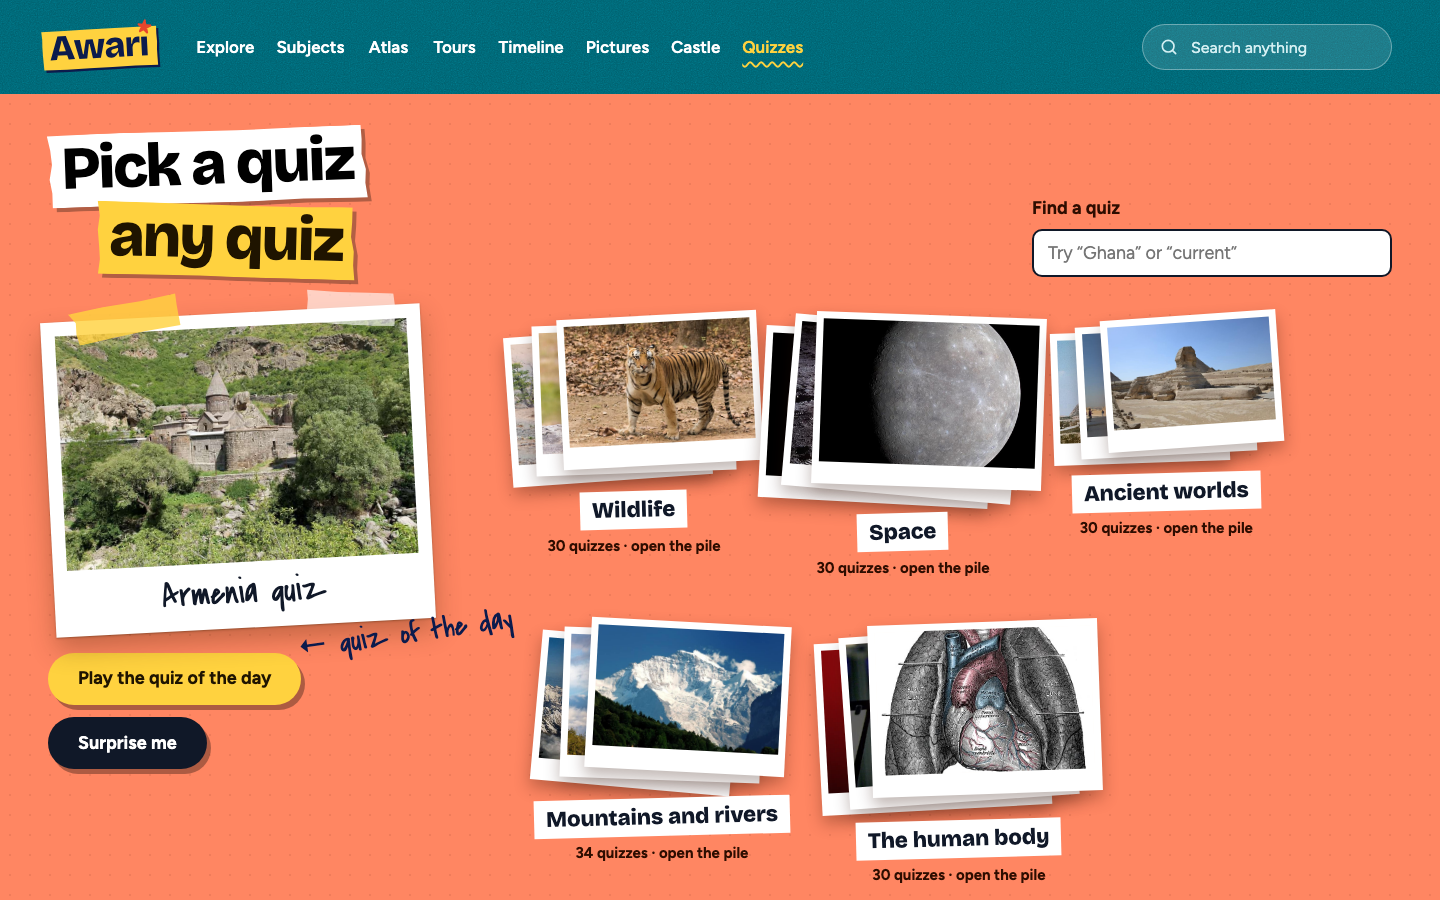
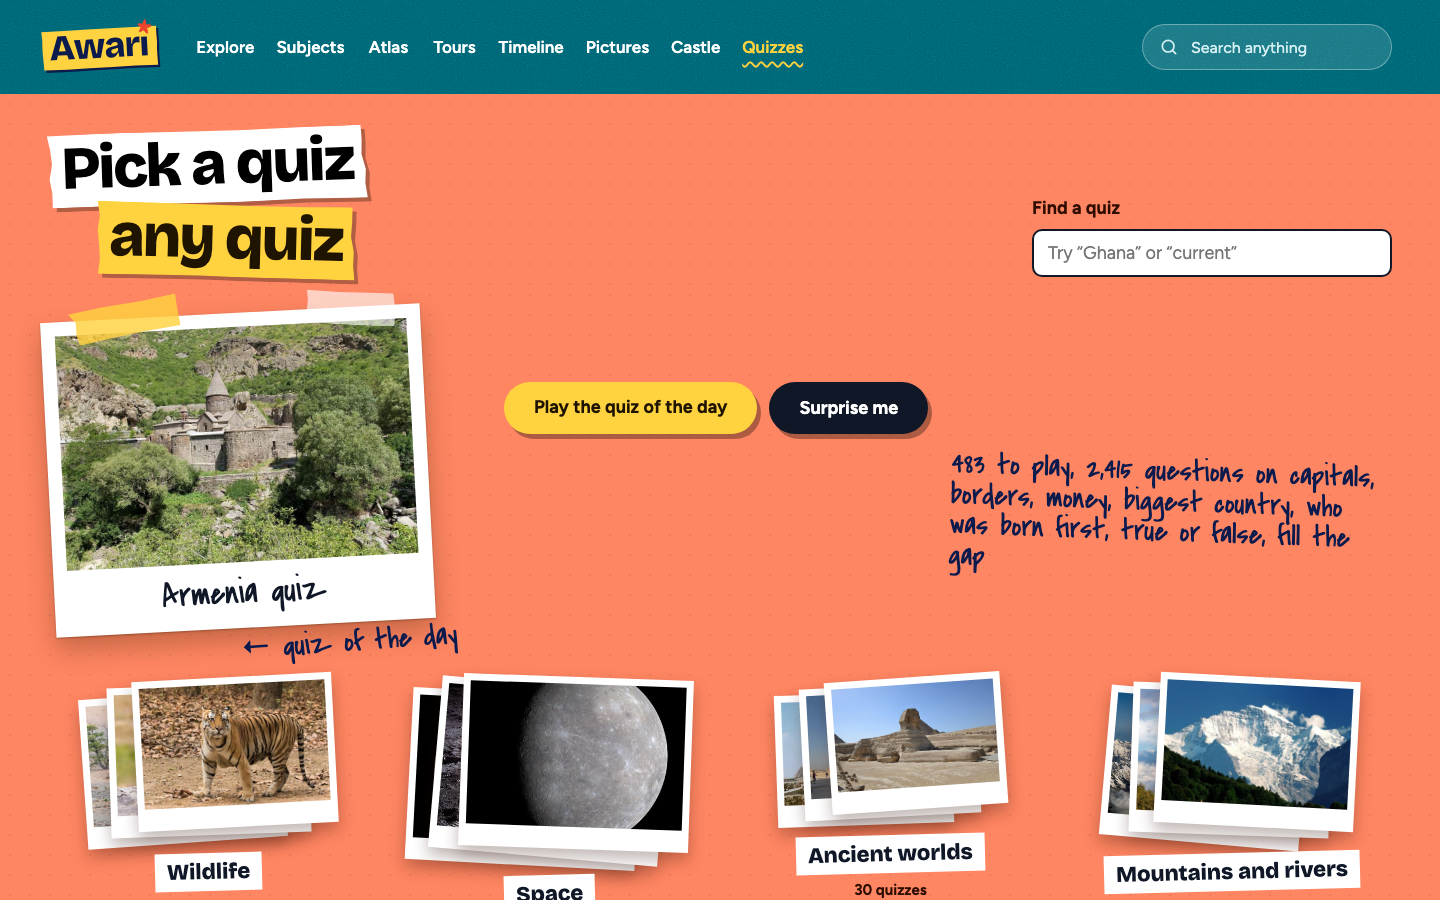
28-every-screen-like-home 2: shelf feedback (no hyphen-looking z, piles across the table 4-3-3, note beside the buttons, whole pile is the control)

diff --git a/src/features/quiz/QuizzesScreen.tsx b/src/features/quiz/QuizzesScreen.tsx
@@ -45,7 +45,7 @@ function thumbOf(pack: string, item: PackIndexItem | undefined): string {
   return item?.thumb ? packUrl(item.thumb) : (coverFor(pack)?.file ?? '');
 }
 
-function QuizOfTheDay({ quiz, all }: { quiz: QuizEntry; all: readonly QuizEntry[] }) {
+function QuizOfTheDay({ quiz }: { quiz: QuizEntry }) {
   const thumbs = useThumbs(quiz.pack);
   return (
     <div className="shelf-today">
@@ -66,22 +66,28 @@ function QuizOfTheDay({ quiz, all }: { quiz: QuizEntry; all: readonly QuizEntry[
       <p aria-hidden="true" className="shelf-today__note hand">
         ← quiz of the day
       </p>
-      <div className="shelf-today__actions">
-        <Link className="btn btn--yellow" to={`/quiz/${quiz.pack}/${quiz.id}`}>
-          Play the quiz of the day
-        </Link>
-        <button
-          type="button"
-          className="btn btn--ink"
-          onClick={() => {
-            const pick = all[Math.floor(Math.random() * all.length)];
-            if (pick) navigate(`/quiz/${pick.pack}/${pick.id}`);
-          }}
-        >
-          Surprise me
-        </button>
-      </div>
     </div>
+  );
+}
+
+/** "Play the quiz of the day" and "Surprise me", beside the print with the handwritten note. */
+function TodayActions({ quiz, all }: { quiz: QuizEntry; all: readonly QuizEntry[] }) {
+  return (
+        <div className="shelf-today__actions">
+          <Link className="btn btn--yellow" to={`/quiz/${quiz.pack}/${quiz.id}`}>
+            Play the quiz of the day
+          </Link>
+          <button
+            type="button"
+            className="btn btn--ink"
+            onClick={() => {
+              const pick = all[Math.floor(Math.random() * all.length)];
+              if (pick) navigate(`/quiz/${pick.pack}/${pick.id}`);
+            }}
+          >
+            Surprise me
+          </button>
+        </div>
   );
 }
 
@@ -95,7 +101,14 @@ function Pile({ pack, quizzes, index }: { pack: string; quizzes: readonly QuizEn
   const panel = `pile-${pack}`;
   return (
     <section className={`shelf-pile shelf-pile--${index % 3}`} aria-labelledby={`${panel}-title`}>
-      <button type="button" className="shelf-pile__button" aria-expanded={open} aria-controls={panel} onClick={() => setOpen((o) => !o)}>
+      <button
+        type="button"
+        className="shelf-pile__button"
+        aria-expanded={open}
+        aria-controls={panel}
+        aria-label={`${open ? 'Close' : 'Open'} the ${LABEL[pack]} pile, ${quizzes.length} quizzes`}
+        onClick={() => setOpen((o) => !o)}
+      >
         <span aria-hidden="true" className="shelf-pile__stack">
           {top.map((q, i) => (
             <span key={q.id} className="shelf-pile__card" style={{ rotate: `${tilt(index + i * 2)}deg`, translate: `${i * 26 - 26}px ${i * -8}px` }}>
@@ -107,7 +120,7 @@ function Pile({ pack, quizzes, index }: { pack: string; quizzes: readonly QuizEn
           {LABEL[pack]}
         </span>
         <span className="shelf-pile__count">
-          {quizzes.length} quizzes{done ? `, ${done} played` : ''} · {open ? 'close the pile' : 'open the pile'}
+          {quizzes.length} quizzes{done ? `, ${done} played` : ''}
         </span>
       </button>
       {open ? (
@@ -218,13 +231,16 @@ export default function QuizzesScreen() {
       ) : null}
 
       <div className="shelf-table">
-        {today ? <QuizOfTheDay quiz={today} all={quizzes} /> : null}
-        {total ? (
-          <MarginNote tilt={2} size={30} className="shelf-table__note">
-            {quizzes.length} quizzes, {total.toLocaleString('en-GB')} questions: capitals, borders, money, biggest country, who was born
-            first, true or false, fill the gap
-          </MarginNote>
-        ) : null}
+        {today ? <QuizOfTheDay quiz={today} /> : null}
+        <div className="shelf-beside">
+          {total ? (
+            <MarginNote tilt={2} size={30} className="shelf-table__note">
+              {quizzes.length} to play, {total.toLocaleString('en-GB')} questions on capitals, borders, money, biggest country, who was
+              born first, true or false, fill the gap
+            </MarginNote>
+          ) : null}
+          {today ? <TodayActions quiz={today} all={quizzes} /> : null}
+        </div>
         <div className="shelf-piles">
           {SUBJECTS.filter((s) => s.id !== 'countries').map((s, i) => (
             <Pile key={s.id} pack={s.id} index={i} quizzes={quizzes.filter((q) => q.pack === s.id)} />

diff --git a/src/features/quiz/quizzes.css b/src/features/quiz/quizzes.css
@@ -519,3 +519,154 @@
 .shelf-sheet__more {
   margin-top: 16px;
 }
+
+/* Owner feedback 18 Nov 23:40: no hyphen inside handwriting; the ten piles spread across the whole table in rows of
+   four, three and three with offsets; the note beside the buttons; the whole pile lifts as one control. */
+.shelf-table__note,
+.shelf-table__note * {
+  hyphens: none;
+  overflow-wrap: normal;
+  word-break: normal;
+}
+
+@media (min-width: 900px) {
+  .shelf-table {
+    grid-template-columns: minmax(300px, 400px) minmax(0, 1fr);
+    grid-template-areas:
+      'today note'
+      'piles piles';
+    align-items: center;
+    gap: 10px 56px;
+  }
+
+  .shelf-table__note {
+    align-self: end;
+    max-width: 560px;
+    margin-bottom: 104px;
+    font-size: 34px;
+  }
+
+  .shelf-today__note {
+    right: auto;
+    left: calc(100% + 24px);
+    top: 30%;
+  }
+
+  .shelf-today__actions {
+    position: absolute;
+    left: calc(100% + 56px);
+    bottom: 18px;
+    margin: 0;
+    flex-wrap: nowrap;
+  }
+
+  .shelf-today {
+    margin-bottom: 20px;
+  }
+
+  .shelf-piles {
+    display: grid;
+    grid-template-columns: repeat(12, minmax(0, 1fr));
+    gap: 34px 20px;
+    margin-top: 18px;
+  }
+
+  .shelf-pile {
+    grid-column: span 3;
+    justify-self: center;
+  }
+
+  /* Rows two and three hold three piles each, shifted by half a column for an offset, hand-laid look. */
+  .shelf-pile:nth-child(n + 5) {
+    grid-column: span 4;
+  }
+
+  .shelf-pile:nth-child(5) {
+    translate: 30px 0;
+  }
+
+  .shelf-pile:nth-child(7),
+  .shelf-pile:nth-child(10) {
+    translate: -30px 0;
+  }
+
+  .shelf-pile:nth-child(9) {
+    translate: 40px 6px;
+  }
+
+  .shelf-pile:has([aria-expanded='true']) {
+    grid-column: 1 / -1;
+    justify-self: stretch;
+    translate: none;
+  }
+}
+
+.shelf-pile__button {
+  border-radius: 10px;
+  transition: translate 140ms ease, background-color 140ms ease;
+}
+
+.shelf-pile__button:hover,
+.shelf-pile__button:focus-visible {
+  translate: 0 -6px;
+  background: rgb(255 255 255 / 0.18);
+}
+
+@media (prefers-reduced-motion: reduce) {
+  .shelf-pile__button {
+    transition: none;
+  }
+
+  .shelf-pile__button:hover,
+  .shelf-pile__button:focus-visible {
+    translate: none;
+  }
+}
+
+/* The note and the two buttons sit together beside the quiz of the day. */
+.shelf-beside {
+  grid-area: note;
+  display: grid;
+  gap: 22px;
+  align-content: center;
+}
+
+.shelf-beside .shelf-today__actions {
+  position: static;
+  margin: 0;
+  flex-wrap: wrap;
+}
+
+.shelf-beside .shelf-table__note {
+  margin: 0;
+  max-width: 620px;
+}
+
+@media (max-width: 899px) {
+  .shelf-table {
+    grid-template-areas: 'today' 'note' 'piles';
+  }
+
+  .shelf-beside .shelf-table__note {
+    font-size: 24px;
+  }
+}
+
+.shelf-today__note {
+  white-space: nowrap;
+}
+
+.margin-note {
+  font-variant-ligatures: none;
+  font-feature-settings: 'liga' 0, 'calt' 0, 'dlig' 0;
+}
+
+@media (min-width: 900px) {
+  .shelf-today__note {
+    top: auto;
+    left: auto;
+    right: -10px;
+    bottom: -38px;
+    rotate: -4deg;
+  }
+}

diff --git a/src/design/global.css b/src/design/global.css
@@ -46,6 +46,11 @@ h2:focus {
 .hand {
   font-family: var(--font-hand);
   font-weight: 400;
+  /* The hand font joins "zz" and some other pairs with a stroke that reads as a hyphen ("quiz-zes"); handwriting
+     never hyphenates (28, owner feedback 18 Nov). */
+  font-variant-ligatures: none;
+  font-feature-settings: 'liga' 0, 'calt' 0, 'dlig' 0;
+  hyphens: none;
 }
 
 .sr-only {

diff --git a/docs/design-pass.md b/docs/design-pass.md
@@ -171,3 +171,21 @@ Done (19 Nov, main session), with notes:
 - [x] (owner, 23:02 UTC) The tried ticket is marked: a pencil cross over it, a handwritten "✗ tried" tag, and it cannot be
       picked again (`tried` in `quizMachine.ts`, test `tried.test.ts`). 1024 and 768 re-measured with
       `layout-stable.ts`: no movement, no overlap, "Not quite" on a cream slip at every width.
+
+### Quizzes shelf, commit 411711e (looked at 18 Nov 23:40 UTC, the `after/` shots)
+
+This passes the test: it reads like Home. Keep the coral table, the piles, the quiz of the day and
+the stamp sheets with photographs. Small things:
+
+- [x] The handwritten note breaks a word: "483 quiz-zes". Never hyphenate inside handwriting; let
+      the line wrap between words.
+- [x] The piles sit in a ragged block with holes on the right of rows two and four and an empty
+      strip down the left under "Surprise me". Spread the ten piles across the full table width
+      (four, three, three with offsets) and move the handwritten note up beside the buttons.
+- [x] "30 quizzes · open the pile": drop the middle dot; write "30 quizzes" and let the whole pile
+      be the control (it should lift on hover, and say "Open the Wildlife pile" to a screen reader).
+- Done (19 Nov, main session): the hand font draws "z" with a crossbar, which read as a hyphen in "quizzes"; the note now
+  says "483 to play, 2,415 questions on ...", and every `.hand` text has ligatures and hyphenation switched off. The
+  ten piles sit across the whole table in rows of four, three and three with offsets; the note and both buttons sit
+  beside the quiz of the day. Each pile is one button that lifts on hover and reads "Open the Wildlife pile, 30 quizzes"
+  to a screen reader; the visible line is "30 quizzes".
